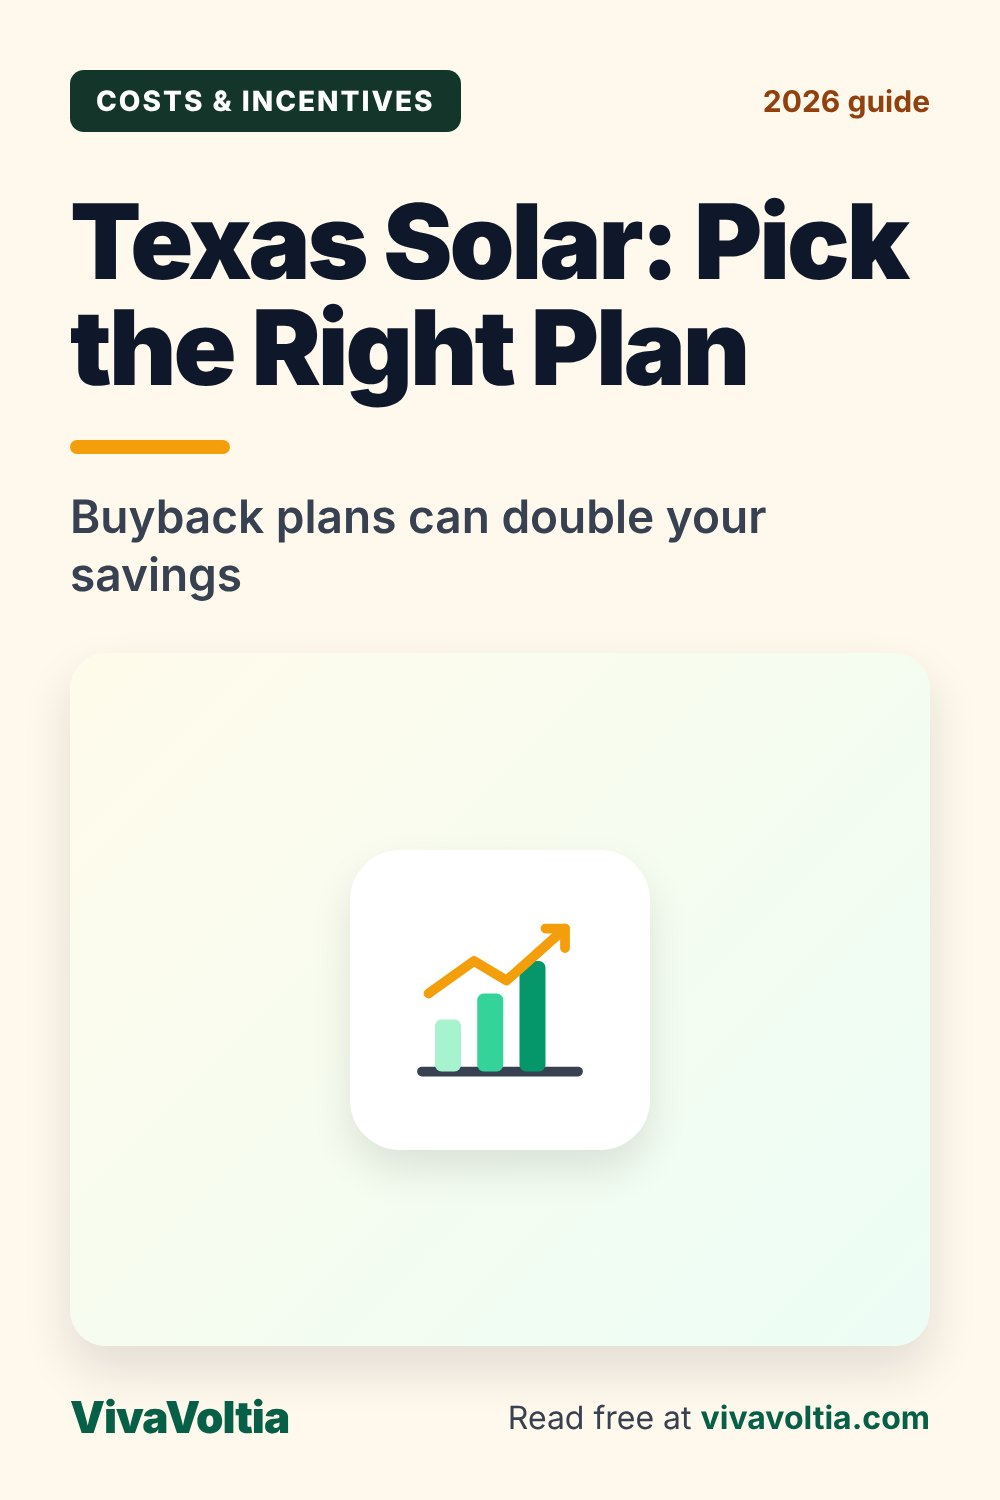
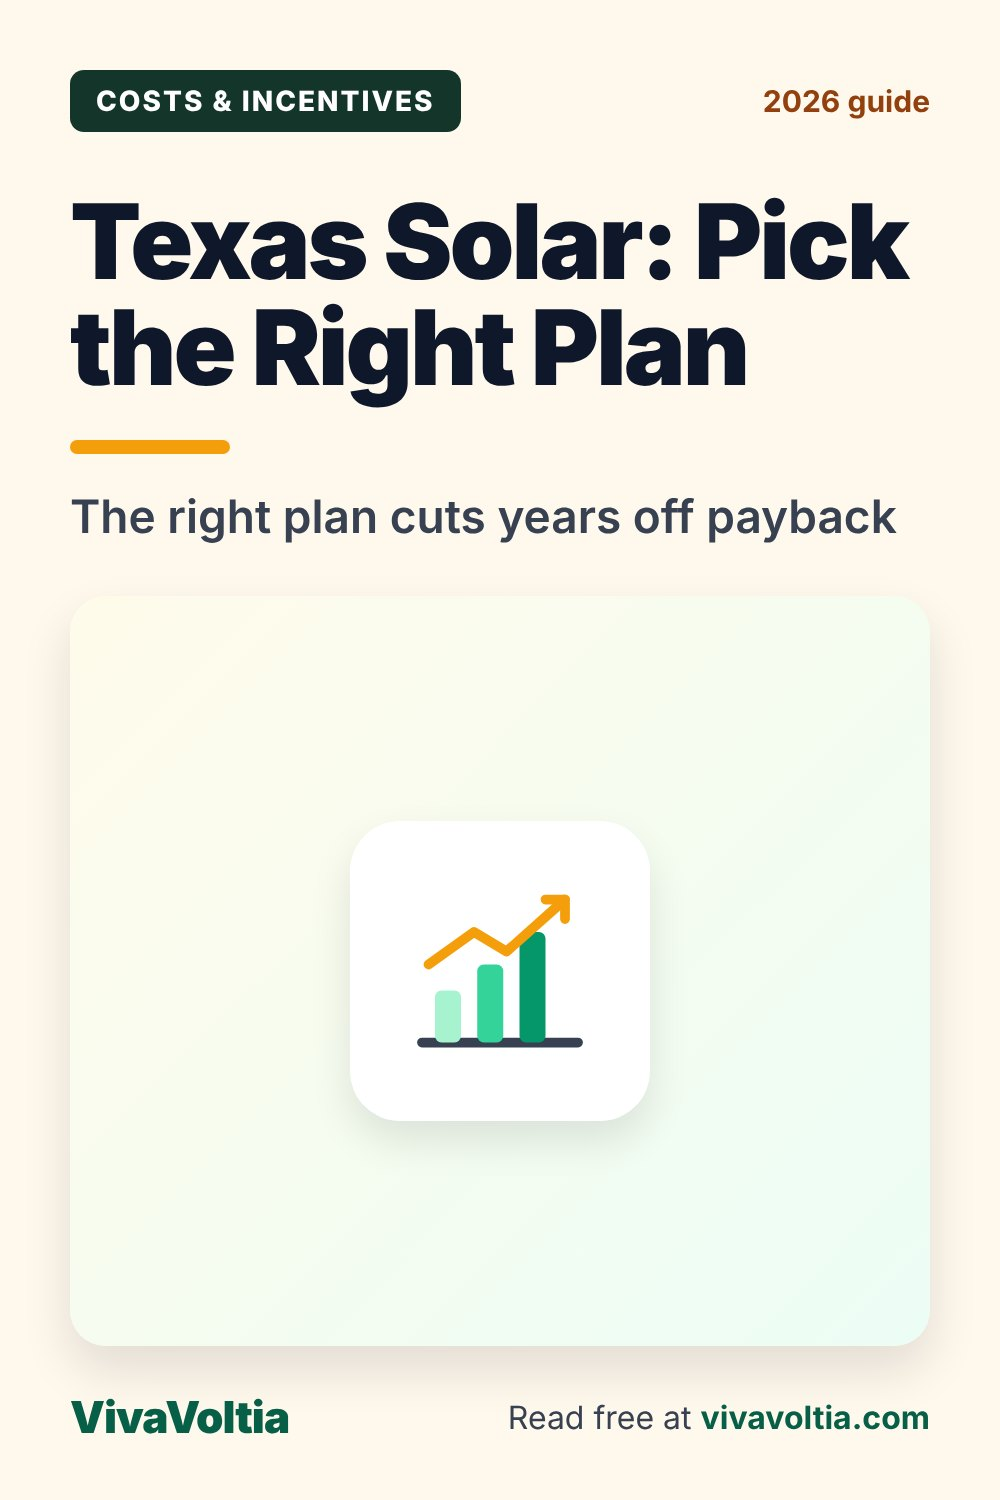
Pins: soften Texas C subline
Claude-Session: https://claude.ai/code/session_018wdkvjLudEwe5zHWAQYcbJ

Changed region(s): [[0.341, 0.5827, 0.651, 0.7667], [0.062, 0.3373, 0.899, 0.3987]]

diff --git a/tools/pinterest/pins_c.py b/tools/pinterest/pins_c.py
@@ -13,7 +13,7 @@ PINS_C = {
  "is-solar-worth-it-california": ("California Solar After NEM 3.0", "Why a battery changes the math", "California Solar Payback in 2026: With vs Without a Battery"),
  "solar-panels-cloudy-rain-snow": ("Solar Works in Winter Too", "Clouds, rain, snow and cold explained", "Do Solar Panels Work in Winter?"),
  "solar-lease-vs-buy": ("Lease, Loan or Cash?", "The smartest way to pay for solar", "Solar Lease vs Loan vs Cash in 2026"),
- "is-solar-worth-it-texas": ("Texas Solar: Pick the Right Plan", "Buyback plans can double your savings", "Texas Solar Buyback Plans Compared"),
+ "is-solar-worth-it-texas": ("Texas Solar: Pick the Right Plan", "The right plan cuts years off payback", "Texas Solar Buyback Plans Compared"),
  "solar-and-ev-charging": ("Power Your EV With Sunshine", "How many extra panels you need", "How Much Solar Do You Need for an Electric Car?"),
  "tesla-powerwall-3-review": ("Is the Powerwall 3 Worth It?", "Specs, price and real backup times", "Tesla Powerwall 3: Honest 2026 Review"),
  "federal-solar-tax-credit-guide": ("What Replaced the 30% Credit?", "Your solar options in 2026", "Solar Tax Credit Ended: Your Options in 2026"),
